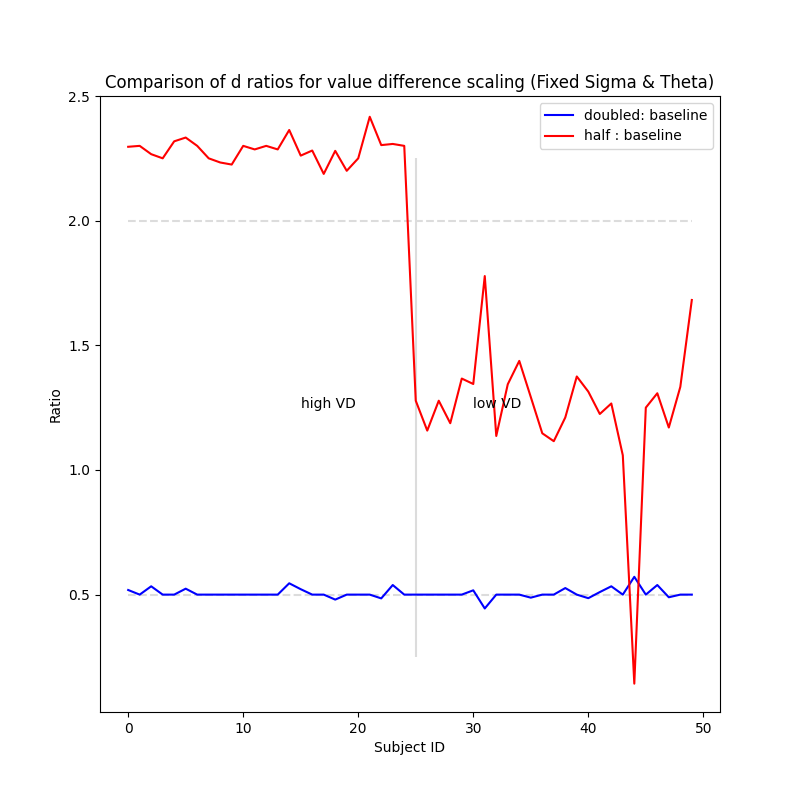
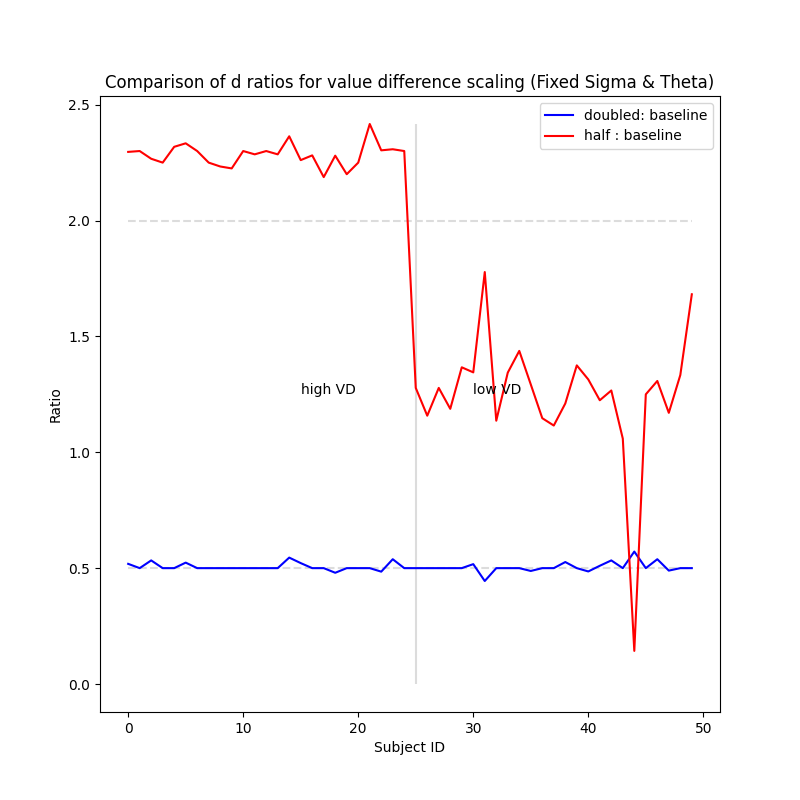
Update graphs

diff --git a/Da_data/compare_ratios.py b/Da_data/compare_ratios.py
@@ -37,7 +37,7 @@ for (i, row), (j, row2), (k, row05) in zip(pd1.iterrows(), pd2.iterrows(), pd05.
             row05[PARAM] = 0.1
         d1_to_d05.append(row05[PARAM]/ row[PARAM] )
 
-plt.vlines(len(subjects) / 2, 0.25, 2.25, "gainsboro")
+plt.vlines(len(subjects) / 2, 0, max(max(d1_to_d05), max(d1_to_d2)), "gainsboro")
 if PARAM == "d": 
     plt.plot(subjects, [0.5] * len(subjects), '--', color="gainsboro")
     plt.plot(subjects, [2] * len(subjects), '--', color="gainsboro")
@@ -50,7 +50,7 @@ plt.plot(subjects, d1_to_d05, label="half : baseline", color="red")
 plt.text(15, 1.25, "high VD")
 plt.text(30, 1.25, "low VD")
 
-plt.ylim(top=2.5)
+# plt.ylim(top=2.5)
 
 plt.xlabel("Subject ID")
 plt.ylabel("Ratio")
